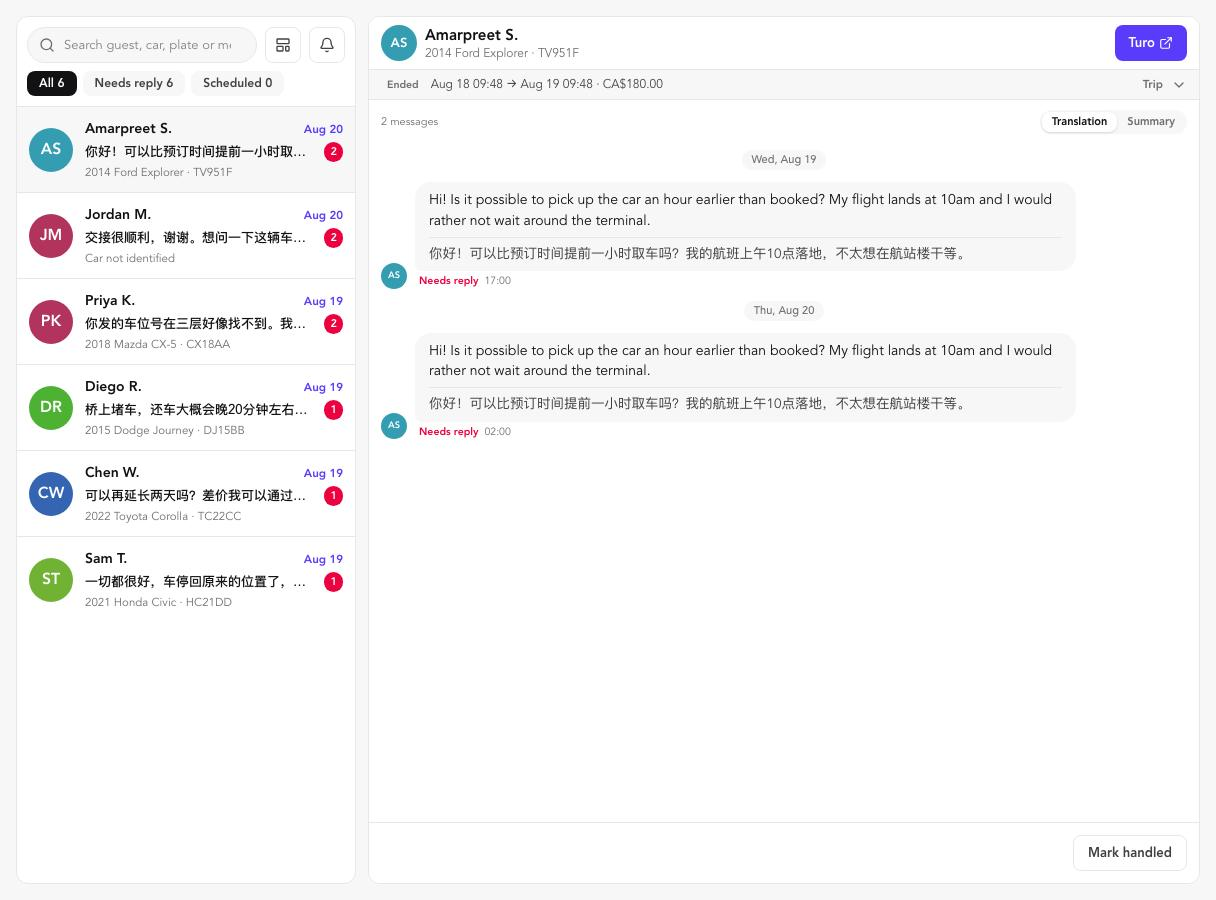
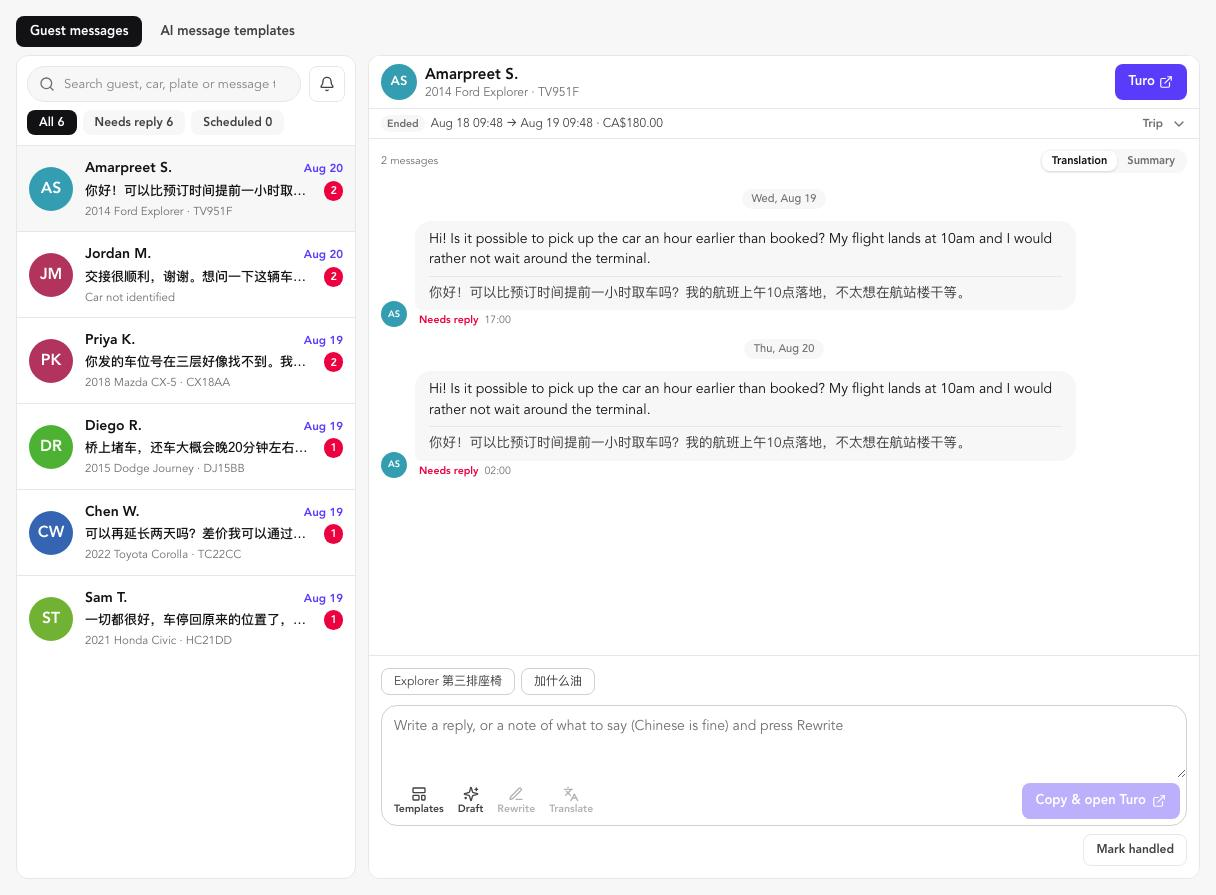
The help manual covers replying to guests and the AI message templates (v1.65.1)
Follows the Messages redesign in v1.65.0: the guide goes from one
section to four (finding what needs a reply, replying with the new
tools, the AI message templates page, and the new-entry form), with
new pictures. The old picture marked a link the redesign removed.

diff --git a/app/(admin)/help/guides/zh.ts b/app/(admin)/help/guides/zh.ts
@@ -68,23 +68,54 @@ export const guides: Guide[] = [
   {
     key: "messages",
     title: "客人消息",
-    summary: "所有 Turo 客人发来的消息按对话排列，附中文翻译，方便集中回复。",
+    summary: "所有 Turo 客人发来的消息按对话排列，附中文翻译；在这里写好回复（AI 可以起草、改写、翻译），复制到 Turo 发送。",
     sections: [
       {
-        heading: "找到要回的消息并处理",
+        heading: "找到要回的消息",
         shot: "messages-main",
         steps: [
           "点「待回复」只看还没处理的对话；「定时」是你安排好稍后发出的。",
           "左边点一个对话，右边显示整段对话，原文下面是中文翻译。",
-          "点「Turo 回复」打开这段对话在 Turo 上的页面，在那里回复客人。",
+          "右上角「Turo 回复」直接打开这段对话在 Turo 上的页面。",
           "「逐字翻译」和「摘要」切换两种看法：长对话看摘要更快。",
           "回复完点「标记已处理」，它就离开「待回复」。",
+        ],
+      },
+      {
+        heading: "回复客人",
+        shot: "messages-reply",
+        steps: [
+          "在回复框里直接写回复；也可以只写个意思（中文也行），再点「改写」，AI 会写成客人语言的完整消息。",
+          "「模板」插入「AI消息模板」里的回复模板，客人名、车型、取车地点这些占位符会按这笔订单自动填好。",
+          "「起草」让 AI 针对客人最新一条消息写回复，它只用「AI消息模板」里的资料，没有的会说确认后回复；「翻译」把你写的内容翻成客人的语言。",
+          "点「复制并去 Turo 发送」：回复已复制，同时打开这笔订单在 Turo 上的对话，粘贴后发送。",
+        ],
+      },
+      {
+        heading: "AI消息模板",
+        shot: "messages-library",
+        steps: [
+          "页面顶部点「AI消息模板」进来。这里是 AI 能对客人说的全部资料：回复框的起草和改写、AI 助理、外接的 AI Agent 都读这一个库。点「新建」添加条目。",
+          "「从历史回复整理」让 AI 读过去的对话，整理出客人常问的问题和你当时的回答，挑着添加。",
+          "每条可以只用于某几台车、某个时段（取车前、行程中、还车后），也可以设有效期；过期或关掉「给 AI 用」后，AI 就不再用它。",
+          "右边「AI 会读到什么」：选一台车和行程阶段，输入一句客人消息，就能看到 AI 实际会拿到哪些条目。",
+        ],
+      },
+      {
+        heading: "新建条目",
+        shot: "messages-library-new",
+        steps: [
+          "先选这条是什么：「回复模板」是可以直接发的整段话；「事实问答」是一个答案，AI 用自己的话告诉客人；「内部规则」是你希望怎么处理，AI 照做但不会说给客人。",
+          "填标题和「客人会怎么问」：照客人的原话写，每行一种问法，AI 靠它判断什么时候用这一条。",
+          "写内容时点下面的按钮插入占位符（客人名、车型、取车地点、取车密码等），用的时候按订单自动填；取车密码不会交给 AI。",
+          "选适用车辆、时段和有效期（选填），点「保存」。",
         ],
       },
     ],
     tips: [
       "对话顶部那一行是这笔订单的日期和金额，点右边的「订单」展开详情。",
-      "「未识别车辆」表示邮件里的车型对应到多台车或没有对应的车，系统不会乱猜；可以在订单里手动指定车辆。",
+      "「未识别车辆」表示邮件里的车型对应到多台车或没有对应的车，系统不会乱猜；可以在订单里手动指定车辆。这样的对话也拿不到只适用于某台车的模板条目。",
+      "只适用于某几台车的条目，只在确实只对那几台车成立时才用；其余的留成「全部车辆」。",
     ],
   },
   {

diff --git a/app/(admin)/help/guides/en.ts b/app/(admin)/help/guides/en.ts
@@ -66,23 +66,54 @@ export const guides: Guide[] = [
   {
     key: "messages",
     title: "Messages",
-    summary: "Every Turo guest message, grouped by conversation, with a translation beside it.",
+    summary: "Every Turo guest message, grouped by conversation, with a translation beside it; write the reply here (AI can draft, rewrite and translate) and copy it to Turo.",
     sections: [
       {
-        heading: "Find what needs a reply and clear it",
+        heading: "Find what needs a reply",
         shot: "messages-main",
         steps: [
           "Needs reply shows only conversations still waiting; Scheduled holds the ones you set to send later.",
           "Pick a conversation on the left to read all of it on the right, each message with its translation.",
-          "Turo opens the conversation on Turo, where you reply to the guest.",
+          "Turo, top right, opens the conversation on Turo.",
           "Switch between Translation and Summary; a long thread reads faster as a summary.",
           "When it is handled, press Mark handled and it leaves Needs reply.",
+        ],
+      },
+      {
+        heading: "Reply to the guest",
+        shot: "messages-reply",
+        steps: [
+          "Write the reply in the box, or just the gist (Chinese is fine) and press Rewrite: AI turns it into a full message in the guest's language.",
+          "Templates inserts a reply template from AI message templates, with placeholders such as the guest's name, the car and the pickup place filled in from the trip.",
+          "Draft has AI answer the guest's latest message using only what is in AI message templates; what is not there, it says it will check. Translate puts what you wrote into the guest's language.",
+          "Copy & open Turo copies the reply and opens this trip's conversation on Turo; paste it there and send.",
+        ],
+      },
+      {
+        heading: "AI message templates",
+        shot: "messages-library",
+        steps: [
+          "Open it from the tab at the top of Messages. It is everything the AI may say to guests: drafting and rewriting in the reply box, the assistant and outside AI agents all read this one library. New entry adds one.",
+          "Suggest from past replies has AI read past conversations and collect what guests often ask with the answers you gave; add the ones you want.",
+          "An entry can be limited to some cars and to a stage of the trip (before pickup, during, after return), and can expire; once expired or switched off from AI, the AI stops using it.",
+          "What the AI reads, on the right: pick a car and a trip stage and type a guest message to see exactly which entries the AI would be given.",
+        ],
+      },
+      {
+        heading: "New entry",
+        shot: "messages-library-new",
+        steps: [
+          "First say what it is: a Reply template is a whole message to send as is; a Fact is one answer the AI tells guests in its own words; an Internal rule is how you want something handled, which the AI follows but never tells the guest.",
+          "Fill in the title and How guests ask, in the guest's own words, one way of asking per line; that is how the AI knows when this entry applies.",
+          "In the content, the buttons below insert placeholders (guest name, car, pickup place, pickup code and so on), filled from the trip when used; the pickup code is never given to the AI.",
+          "Choose the cars, the stage and an expiry date if any, then Save.",
         ],
       },
     ],
     tips: [
       "The line at the top of a conversation is the trip's dates and amount; Trip on the right opens it.",
-      "Car not identified means the email's make and model fit several cars, or none. TATO never guesses; set the car on the trip yourself.",
+      "Car not identified means the email's make and model fit several cars, or none. TATO never guesses; set the car on the trip yourself. Such a conversation also gets no car-specific template entries.",
+      "Limit an entry to some cars only when it is true of those cars alone; leave the rest as All cars.",
     ],
   },
   {

diff --git a/app/(admin)/help/shots/operations.ts b/app/(admin)/help/shots/operations.ts
@@ -38,12 +38,51 @@ export const operationsShots: Shot[] = [
   {
     id: "messages-main",
     path: "/messages",
+    setup: [{ click: { text: "Amarpreet S.", nth: 0 } }, { wait: 1200 }],
     marks: [
       { step: 1, target: { role: "button", name: { zh: "待回复", en: "Needs reply" } } },
       { step: 2, target: { text: "Amarpreet S.", nth: 0 } },
-      { step: 3, target: { css: 'main a:has-text("Turo")', nth: 0 } },
+      { step: 3, target: { role: "link", name: { zh: "Turo 回复", en: "Turo" }, exact: true } },
       { step: 4, target: { role: "button", name: { zh: "逐字翻译", en: "Translation" } } },
       { step: 5, target: { role: "button", name: { zh: "标记已处理", en: "Mark handled" } } },
+    ],
+  },
+  {
+    id: "messages-reply",
+    path: "/messages",
+    setup: [
+      { click: { text: "Amarpreet S.", nth: 0 } },
+      { wait: 1200 },
+      { fill: { css: "main textarea" }, value: "Hi Amarpreet! Let me check when the car comes back from the trip before yours, and I'll confirm the earlier pickup within the hour." },
+      { wait: 300 },
+    ],
+    marks: [
+      { step: 1, target: { css: "main textarea" } },
+      { step: 2, target: { role: "button", name: { zh: "模板", en: "Templates" }, exact: true } },
+      { step: 3, target: { css: 'main button:has(span:text-is("起草")), main button:has(span:text-is("Draft"))' } },
+      { step: 4, target: { role: "button", name: { zh: "复制并去 Turo 发送", en: "Copy & open Turo" } } },
+    ],
+  },
+  {
+    id: "messages-library",
+    path: "/messages/ai-templates",
+    marks: [
+      { step: 1, target: { role: "button", name: { zh: "新建", en: "New entry" }, exact: true } },
+      { step: 2, target: { role: "button", name: { zh: "从历史回复整理", en: "Suggest from past replies" } } },
+      { step: 3, target: { css: 'main span.rounded-full:text-is("全部车辆"), main span.rounded-full:text-is("All cars")', nth: 0 } },
+      { step: 4, target: { text: { zh: "AI 会读到什么", en: "What the AI reads" } } },
+    ],
+  },
+  {
+    id: "messages-library-new",
+    path: "/messages/ai-templates",
+    setup: [{ click: { role: "button", name: { zh: "新建", en: "New entry" }, exact: true } }, { wait: 800 }],
+    clip: { dialog: true },
+    marks: [
+      { step: 1, target: { css: '[role="dialog"] button', nth: 1 } },
+      { step: 2, target: { css: '[role="dialog"] textarea', nth: 0 } },
+      { step: 3, target: { css: '[role="dialog"] button:has-text("+ ")', nth: 1 } },
+      { step: 4, target: { role: "button", name: { zh: "保存", en: "Save" }, exact: true } },
     ],
   },
   {

diff --git a/CHANGELOG.md b/CHANGELOG.md
@@ -1,5 +1,22 @@
 # Changelog
 
+## v1.65.1 - 2026-10-11
+
+### The help manual covers replying to guests and the AI message templates
+
+- Follows the Messages redesign in v1.65.0. The Messages guide grows
+  from one section to four: finding what needs a reply; replying (the
+  box, Templates, Draft, Rewrite, Translate, and Copy & open Turo);
+  the AI message templates page (new entry, suggestions from past
+  replies, limiting an entry to cars, stages and dates, and the "what
+  the AI reads" preview); and the new-entry form (the three kinds, how
+  guests ask, placeholders, the pickup code never reaching the AI).
+- The old picture's third mark pointed at a link the redesign removed;
+  all four pictures are new, taken from local demo data. The library
+  pictures need a few demo entries in the local database, and the AI
+  tools only show when an AI key is set, so they were taken with a
+  placeholder key and no AI call.
+
 ## v1.65.0 - 2026-10-11
 
 ### Replies are written as HostHub writes them, and the AI reads one message library
